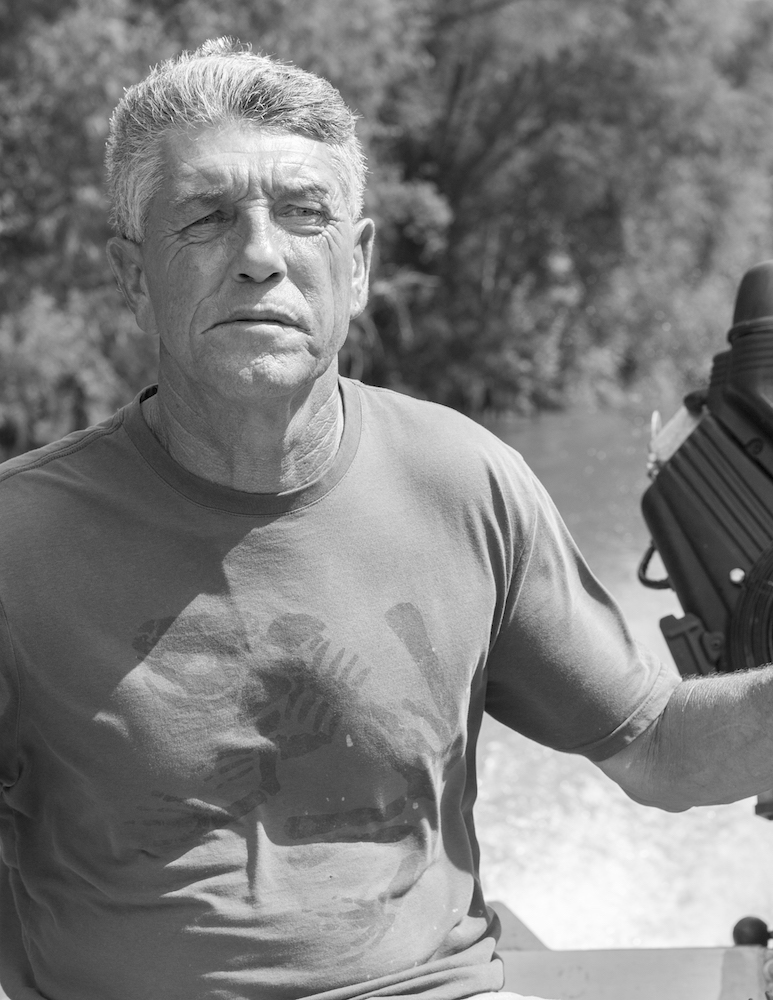
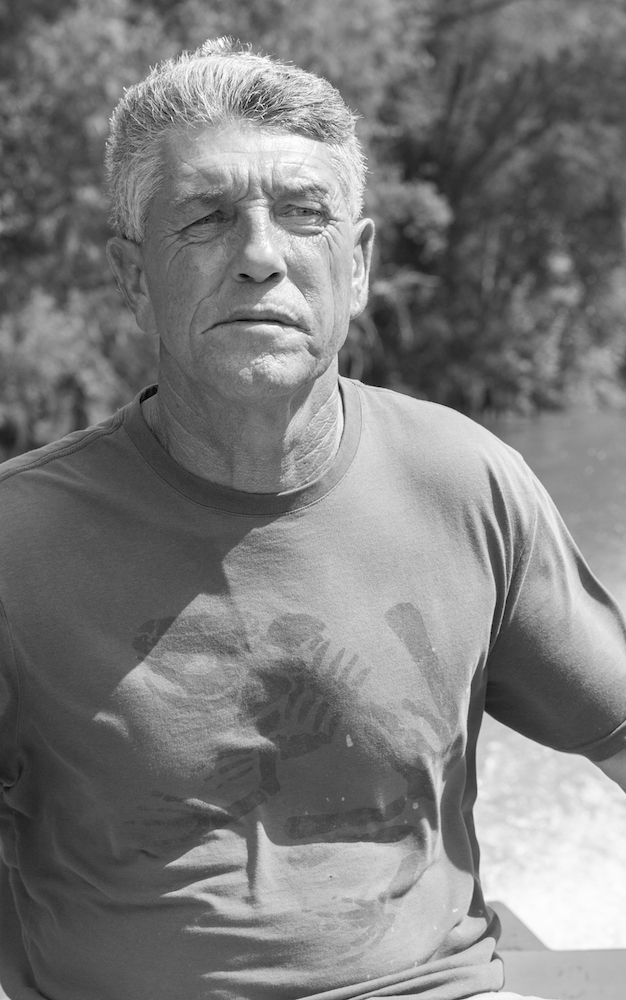
fix mobile

diff --git a/bayoubridge/app/assets/builds/bundle.css b/bayoubridge/app/assets/builds/bundle.css
@@ -12,4 +12,4 @@
  * Start Bootstrap - Creative Bootstrap Theme (http://startbootstrap.com)
  * Code licensed under the Apache License v2.0.
  * For details, see http://www.apache.org/licenses/LICENSE-2.0.
- */body,html{margin:0;padding:0;background-color:#000;overflow:hidden;height:100%;font-family:Droid Serif}body{display:none}body[class*=fp-viewing-]{display:block}button:focus{outline:0}div{padding:0;margin:0}hr{max-width:50px;border-color:#202020;border-width:3px}hr.light{border-color:#fff}a{color:#000;-webkit-transition:all .35s;-moz-transition:all .35s;transition:all .35s}a:focus,a:hover{color:#7f4242}a.no-decoration:focus,a.no-decoration:hover{text-decoration:none}h1,h2,h3,h4,h5,h6{font-family:Open Sans,Helvetica Neue,Arial,sans-serif;color:#da572e}h1.header-h1{color:#fff;text-transform:uppercase}p{margin-bottom:20px;font-size:16px;line-height:1.5}.desktop{display:none}.bg-primary{background-color:#000}.bg-dark{color:#fff;background-color:#222}.text-faded{color:hsla(0,0%,100%,.7)}section{padding:100px 0}aside{padding:50px 0}.no-padding{padding:0}.navbar-default{border-color:rgba(34,34,34,0);font-family:Open Sans,Helvetica Neue,Arial,sans-serif;background-color:#fff;-webkit-transition:all .35s;-moz-transition:all .35s;transition:all .35s}.navbar-default .navbar-header .navbar-brand{text-transform:uppercase;font-family:Open Sans,Helvetica Neue,Arial,sans-serif;font-weight:700;color:#000}.navbar-default .navbar-header .navbar-brand:focus,.navbar-default .navbar-header .navbar-brand:hover{color:#eb3812}.navbar-default .nav>li>a,.navbar-default .nav>li>a:focus{text-transform:uppercase;font-size:13px;font-weight:700;color:#222}.navbar-default .nav>li>a:focus:hover,.navbar-default .nav>li>a:hover{color:#000}.navbar-default .nav>li.active>a,.navbar-default .nav>li.active>a:focus{color:#000!important;background-color:transparent}.navbar-default .nav>li.active>a:focus:hover,.navbar-default .nav>li.active>a:hover{background-color:transparent}#apps,#contact{background-color:#fff}@media (min-width:768px){.navbar-default{border-color:hsla(0,0%,100%,0);background-color:#060606}.navbar-default .navbar-header .navbar-brand{color:hsla(0,0%,100%,.7)}.navbar-default .navbar-header .navbar-brand:focus,.navbar-default .navbar-header .navbar-brand:hover{color:#fff}.navbar-default .nav>li>a,.navbar-default .nav>li>a:focus{color:hsla(0,0%,100%,.7)}.navbar-default .nav>li>a:focus:hover,.navbar-default .nav>li>a:hover{color:#fff}.navbar-default.affix{border-color:rgba(34,34,34,.05);background-color:#fff}.navbar-default.affix .navbar-header .navbar-brand{font-size:14px;color:#000}.navbar-default.affix .navbar-header .navbar-brand:focus,.navbar-default.affix .navbar-header .navbar-brand:hover{color:#eb3812}.navbar-default.affix .nav>li>a,.navbar-default.affix .nav>li>a:focus{color:#222}.navbar-default.affix .nav>li>a:focus:hover,.navbar-default.affix .nav>li>a:hover{color:#000}}header .header-content{position:relative;width:100%;padding:100px 15px;text-align:center}header .header-content .header-content-inner h1{margin-top:0;margin-bottom:0;text-transform:uppercase;font-weight:700}header .header-content .header-content-inner hr{margin:30px auto}header .header-content .header-content-inner p{margin-bottom:50px;font-size:16px;font-weight:300;color:hsla(0,0%,100%,.7)}header .header-content-inner-wrapper{width:100%;position:absolute;top:20%;z-index:999;text-align:center}.header-video{display:none}iframe{padding:0;border:0;margin:0;width:100%;background:transparent;overflow:hidden}.slideWrap iframe{width:100%;height:800px}.slideshow-wrapper{background-color:#000}.section-heading{margin-top:0}.service-box{margin:50px auto 0;max-width:400px}@media (min-width:992px){.service-box{margin:20px auto 0}}.service-box p{margin-bottom:0}.portfolio-box{display:block;position:relative;margin:0 auto;max-width:650px}.logo-img{max-width:50px;max-height:50px;margin:10px}.portfolio-box .portfolio-box-caption{display:block;position:absolute;bottom:0;width:100%;height:100%;text-align:center;color:#fff;opacity:0;background:rgba(0,0,0,.9);-webkit-transition:all .35s;-moz-transition:all .35s;transition:all .35s}.portfolio-box .portfolio-box-caption .portfolio-box-caption-content{position:absolute;top:50%;width:100%;text-align:center;transform:translateY(-50%)}.portfolio-box .portfolio-box-caption .portfolio-box-caption-content .project-category,.portfolio-box .portfolio-box-caption .portfolio-box-caption-content .project-name{padding:0 15px;font-family:Open Sans,Helvetica Neue,Arial,sans-serif}.portfolio-box .portfolio-box-caption .portfolio-box-caption-content .project-category{text-transform:uppercase;font-size:14px;font-weight:600}.portfolio-box .portfolio-box-caption .portfolio-box-caption-content .project-name{font-size:18px}.portfolio-box:hover .portfolio-box-caption{opacity:1}@media (min-width:768px){.portfolio-box .portfolio-box-caption .portfolio-box-caption-content .project-category{font-size:16px}.portfolio-box .portfolio-box-caption .portfolio-box-caption-content .project-name{font-size:22px}}.call-to-action h2{margin:0 auto 20px}.text-primary{color:#000}.no-gutter>[class*=col-]{padding-right:0;padding-left:0}.btn-default{border-color:#fff;color:#222;background-color:#fff;-webkit-transition:all .35s;-moz-transition:all .35s;transition:all .35s}.btn-default.active,.btn-default.focus,.btn-default:active,.btn-default:focus,.btn-default:hover,.open>.dropdown-toggle.btn-default{border-color:#ededed;color:#222;background-color:#f2f2f2}.btn-default.active,.btn-default:active,.open>.dropdown-toggle.btn-default{background-image:none}.btn-default.disabled,.btn-default.disabled.active,.btn-default.disabled.focus,.btn-default.disabled:active,.btn-default.disabled:focus,.btn-default.disabled:hover,.btn-default[disabled],.btn-default[disabled].active,.btn-default[disabled].focus,.btn-default[disabled]:active,.btn-default[disabled]:focus,.btn-default[disabled]:hover,fieldset[disabled] .btn-default,fieldset[disabled] .btn-default.active,fieldset[disabled] .btn-default.focus,fieldset[disabled] .btn-default:active,fieldset[disabled] .btn-default:focus,fieldset[disabled] .btn-default:hover{border-color:#fff;background-color:#fff}.btn-default .badge{color:#fff;background-color:#222}.btn-primary{border-color:#000;color:#fff;background-color:#000;-webkit-transition:all .35s;-moz-transition:all .35s;transition:all .35s}.btn-primary.active,.btn-primary.focus,.btn-primary:active,.btn-primary:focus,.btn-primary:hover,.open>.dropdown-toggle.btn-primary{border-color:#7f4242;color:#fff;background-color:#7f4242}.btn-primary.active,.btn-primary:active,.open>.dropdown-toggle.btn-primary{background-image:none}.btn-primary.disabled,.btn-primary.disabled.active,.btn-primary.disabled.focus,.btn-primary.disabled:active,.btn-primary.disabled:focus,.btn-primary.disabled:hover,.btn-primary[disabled],.btn-primary[disabled].active,.btn-primary[disabled].focus,.btn-primary[disabled]:active,.btn-primary[disabled]:focus,.btn-primary[disabled]:hover,fieldset[disabled] .btn-primary,fieldset[disabled] .btn-primary.active,fieldset[disabled] .btn-primary.focus,fieldset[disabled] .btn-primary:active,fieldset[disabled] .btn-primary:focus,fieldset[disabled] .btn-primary:hover{border-color:#000;background-color:#000}.btn-primary .badge{color:#000;background-color:#fff}.btn{border:0;border-radius:300px;text-transform:uppercase;font-family:Open Sans,Helvetica Neue,Arial,sans-serif;font-weight:700}.btn-xl{padding:15px 30px}::-moz-selection{text-shadow:none;color:#fff;background:#222}::selection{text-shadow:none;color:#fff;background:#222}img::selection{color:#fff;background:0 0}img::-moz-selection{color:#fff;background:0 0}body{webkit-tap-highlight-color:#222}.verse-player-embed{top:51px}.section{background-color:#000}.section,.slide{position:relative}#section0,#section2 #slide1{background-size:cover;background-color:#000}#section2 #slide1{background-image:url("../img/sasol_2.jpg")}#section4 #slide1{background-size:cover;background-color:#000;background-image:url("../img/fullpage/eyes.gif")}#fullpage{margin-top:0} /*!DJA*/h1{letter-spacing:5px;font-family:Oswald;color:#c80813;font-weight:700;font-size:30px;text-transform:uppercase;text-shadow:2px 2px #fff}h2{letter-spacing:3px;font-family:Droid Serif;padding-top:10px;font-style:italic;font-size:20px;text-shadow:2px 2px #c80813}h2,h3{color:#fff}h3{font-family:Oswald;font-weight:700;text-transform:uppercase;margin:0}@-webkit-keyframes upDownMain{0%{-webkit-transform:translate(-50%);transform:translate(-50%)}20%{-webkit-transform:translate(-50%);transform:translate(-50%)}30%{-webkit-transform:translate(-50%,10px);transform:translate(-50%,10px)}40%{-webkit-transform:translate(-50%);transform:translate(-50%)}50%{-webkit-transform:translate(-50%,10px);transform:translate(-50%,10px)}60%{-webkit-transform:translate(-50%);transform:translate(-50%)}70%{-webkit-transform:translate(-50%);transform:translate(-50%)}}@keyframes upDownMain{0%{-webkit-transform:translate(-50%);transform:translate(-50%)}20%{-webkit-transform:translate(-50%);transform:translate(-50%)}30%{-webkit-transform:translate(-50%,10px);transform:translate(-50%,10px)}40%{-webkit-transform:translate(-50%);transform:translate(-50%)}50%{-webkit-transform:translate(-50%,10px);transform:translate(-50%,10px)}60%{-webkit-transform:translate(-50%);transform:translate(-50%)}70%{-webkit-transform:translate(-50%);transform:translate(-50%)}}@-webkit-keyframes upDownUp{0%{-webkit-transform:translate(-50%);transform:translate(-50%)}80%{-webkit-transform:translate(-50%);transform:translate(-50%)}85%{-webkit-transform:translate(-50%,-10px);transform:translate(-50%,-10px)}90%{-webkit-transform:translate(-50%);transform:translate(-50%)}95%{-webkit-transform:translate(-50%,-10px);transform:translate(-50%,-10px)}to{-webkit-transform:translate(-50%);transform:translate(-50%)}}@keyframes upDownUp{0%{-webkit-transform:translate(-50%);transform:translate(-50%)}80%{-webkit-transform:translate(-50%);transform:translate(-50%)}85%{-webkit-transform:translate(-50%,-10px);transform:translate(-50%,-10px)}90%{-webkit-transform:translate(-50%);transform:translate(-50%)}95%{-webkit-transform:translate(-50%,-10px);transform:translate(-50%,-10px)}to{-webkit-transform:translate(-50%);transform:translate(-50%)}}body .panel-arrow-down{bottom:6%;background-image:url(../img/slide-arrow.png)}body .panel-arrow-down,body .panel-arrow-up{width:88px;height:28px;position:fixed;left:50%;-webkit-transform:translate(-50%);-ms-transform:translate(-50%);transform:translate(-50%);background-repeat:no-repeat;background-size:contain;z-index:99999;cursor:pointer}body .panel-arrow-up{top:6%;visibility:hidden;background-image:url(../img/slide-arrow-up.png)}a,a:hover{color:#dc5f66}.top-header{width:100%;background-color:rgba(0,0,0,.53);z-index:8}.take-action-button,.top-header{position:absolute;top:0;height:35px}.take-action-button{cursor:pointer;font-family:Oswald;right:10%;font-size:20px;background-color:red;color:#fff}.take-action-text{height:35px;padding:3px}.watch-video{cursor:pointer}.video-pane__video-close{position:absolute;color:#fff;fill:#fff;top:5em;right:3em;z-index:11;-webkit-transition:.2s;transition:.2s;cursor:pointer}.video-pane__video-close button{-webkit-appearance:none;-moz-appearance:none;appearance:none;border:0;background:0 0;outline:0}.video-pane__video-close svg{width:40px;height:40px}.coverVideo{position:absolute;bottom:0;top:0;right:0;width:100%;height:100%;background-size:100% 100%;background-color:#000;background-position:50%;background-size:contain;object-fit:cover;z-index:3}body .video-pane__background-still{position:absolute;top:0;left:0;width:100%;height:100%;background-position:top;background-size:cover;z-index:1;opacity:1;-webkit-transition:opacity .3s ease;transition:opacity .3s ease}body .video-pane__container{height:100vh;width:100%;overflow:hidden;position:absolute;top:0;left:0;z-index:10;visibility:hidden}.blurb{color:#fff;width:50%;margin:40px auto;font-family:FreightSans-Book;font-size:20px;max-width:480px;line-height:30px}.container,body,html{height:110%}.container{display:table;width:100%;margin-top:-50px;padding:50px 0 0;box-sizing:border-box}.row{height:100%;display:table-row}.row .no-float{display:table-cell;float:none}.character-container{height:100%;background-size:100% 100%;background-color:#000;background-position:50%;background-size:cover;object-fit:cover;z-index:3}.character-container h3{color:#fff;top:10%;position:absolute;right:10%;font-size:25px;display:none}.character-container h4{color:#fff}.character-container.active h3{color:rgba(204,0,0,.7);display:block}.title-wrapper{z-index:100;color:#fff;position:relative;margin:0 auto;margin-top:-20%;text-align:center;padding:10px}.addthis_inline_share_toolbox{position:absolute;top:8px;left:15%}.fireriver_logo{position:absolute;top:2px;left:1%;max-height:90%}.show{visibility:visible!important}.hide{visibility:hidden}.video-pane__play-wrap{color:#fff;text-transform:uppercase;font-size:1.125em;letter-spacing:.5em;opacity:1;z-index:10;-webkit-transition:all .3s ease;transition:all .3s ease;padding-top:7px}.video-pane__intro-text-holder{position:absolute;top:46%;left:50%;width:100%;-webkit-transform:translate(-50%,-40%);-ms-transform:translate(-50%,-40%);transform:translate(-50%,-40%);text-align:center;z-index:4}.video-pane__play-wrap span.first{margin-right:-.5em}.playBtn.intro{position:relative;margin:0;display:inline-block;vertical-align:middle;margin:0 1.33333em;-webkit-transform:translateX(0)!important;-ms-transform:translateX(0)!important;transform:translateX(0)!important;left:auto!important}.parallax-container{position:absolute;overflow:hidden;display:table;height:100%;width:100%;left:0;top:0}.layer,.scene{display:block;height:100%;width:100%;padding:0;margin:0}.scene{left:0;bottom:0;min-height:460px;position:relative;overflow:hidden}.background{bottom:0;background-size:contain;background-repeat:repeat 50% 100%;width:110%;left:-5%;top:30%}.background,.layer{position:absolute}.layer div{-webkit-transform:translateZ(0);-moz-transform:translateZ(0);transform:translateZ(0);-webkit-transform-style:preserve-3d;-moz-transform-style:preserve-3d;transform-style:preserve-3d;-webkit-backface-visibility:hidden;-moz-backface-visibility:hidden;backface-visibility:hidden}.character-caption,.video-caption{color:#fff;background-color:rgba(0,0,0,.48);border:1px solid #fff;width:70%;padding:10px;margin:0 auto;margin-top:50px;text-align:left}.character-caption{top:12%;position:absolute;right:10%;right:0;width:100%}.character-caption p{font-size:12px}.character-caption{display:none}.character-caption h3,.character-caption h4,.map-caption h3,.video-caption h3{letter-spacing:2px;font-family:Oswald;font-weight:700;color:#fff;padding-top:0;margin-top:0;text-transform:uppercase}.map-caption p,.video-caption p{font-family:Droid Serif;font-size:12px}.character-caption hr,.map-caption hr,.video-caption-left hr,.video-caption hr,.video-gallery-caption hr,hr.white{max-width:100%;width:100%;display:block;height:1px;border:0;border-top:1px solid #fff;margin:1em 0;padding:0}.bayou-timeline{position:fixed;top:0;width:0;height:100vh;z-index:9;pointer-events:none;display:none;visibility:hidden}.bayou-timeline__navBlock.extra{top:3%}.bayou-timeline__navBlock{position:absolute;top:3%;right:-2px;height:4%;width:4px;z-index:9;background-color:#c80813;-webkit-transition:top .5s ease;transition:top .5s ease}.bayou-timeline__textContainer{height:16.666%;width:100%;position:relative;-webkit-transition:opacity .3s ease;transition:opacity .3s ease}timeline__textContainer .text-wrapper{position:absolute;top:50%;right:0;padding-right:15%;-webkit-transform:translateY(-50%);-ms-transform:translateY(-50%);transform:translateY(-50%);-webkit-transition:opacity .3s ease;transition:opacity .3s ease}.bayou-timeline h4{font-size:19px;font-size:1.5em;font-family:FreightSans-Medium,Arial,sans-serif;font-weight:400;font-style:normal;line-height:1em;margin-bottom:.5em;color:#fff;text-align:right;font-family:FreightSans-Book;letter-spacing:1px;font-size:10px}.bayou-timeline__separationLine{width:20px;height:2px;background-color:hsla(0,0%,100%,.5)}.bayou-timeline__line{position:absolute;top:0;right:0;width:1px;height:100%;background-color:hsla(0,0%,100%,.5)}.bayou-timeline__textContainer .line-wrapper,.bayou-timeline__textContainer .text-wrapper{position:absolute;top:50%;right:0;padding-right:15%;-webkit-transform:translateY(-50%);-ms-transform:translateY(-50%);transform:translateY(-50%);-webkit-transition:opacity .3s ease;transition:opacity .3s ease}.bayou-timeline__textContainer.active .text-wrapper{display:block}.bayou-timeline__textContainer .text-wrapper{display:none}@-webkit-keyframes pulse{0%{-webkit-transform:scale(1);transform:scale(1)}to{-webkit-transform:scale(1.4);transform:scale(1.4)}}@keyframes pulse{0%{-webkit-transform:scale(1);transform:scale(1)}to{-webkit-transform:scale(1.4);transform:scale(1.4)}}.hotspot{width:25px;height:25px;z-index:9999;background-color:hsla(0,0%,100%,.5);cursor:pointer;-webkit-backface-visibility:hidden;backface-visibility:hidden;-webkit-transform:translateZ(0);transform:translateZ(0);-webkit-animation:pulse 1s ease-in-out alternate infinite;animation:pulse 1s ease-in-out alternate infinite}.hotspot,.hotspot:after{border-radius:50%;position:absolute}.hotspot:after{content:"";width:15px;height:15px;top:50%;left:50%;-webkit-transform:translate(-49%,-50%);-ms-transform:translate(-49%,-50%);transform:translate(-49%,-50%);background-color:#fff;-webkit-transition:background-color .3s ease;transition:background-color .3s ease}.hotspot.btn-warning{background-color:#c80813;-webkit-animation:none;animation:none}.hotspot.btn-primary{background-color:hsla(0,0%,100%,.5)}.gallery-display-wrapper{top:10%;position:relative;height:70%;width:100%;background-color:#000;background-size:contain;background-image:url("./../img/maps/pipeline_background.png");background-repeat:no-repeat;background-position-y:center;background-position-x:center}#louisiana-gallery{background-image:url("./../img/maps/louisiana_background.png")}.gallery-slide{background-color:#000!important}.video-gallery-caption{color:#fff;top:65%;font-size:10px;width:70%;right:14%;background-color:rgba(0,0,0,.7)}.btn-collection,.video-gallery-caption{z-index:9999;position:absolute;margin:0 auto;text-align:center}.btn-collection{background-color:#000;width:100%;top:1px;border-bottom:1px solid #fff;padding:5px}@media (orientation:landscape) and (max-width:768px){h1{font-size:30px}h2{font-size:20px}.title-wrapper{margin-top:-10%}.video-caption{margin-top:25px}.video-pane__play-wrap{position:absolute;top:-14%;right:5%}}@media only screen and (min-width:768px){h1{font-size:65px}h1.text-slide{font-size:36px}h2{font-size:27px}.character-container h3{font-size:25px;display:block}.mobile{display:none}.desktop,.hotspot-container{display:block}.take-action-button{right:6%}.fireriver_logo{right:2%}.hotspot{width:45px;height:45px}.logo-img{max-width:120px;max-height:120px;margin:20px}.gallery-display-wrapper{width:70%}.video-gallery-caption{top:70%;width:100%}.bounce-down{-webkit-animation:upDownMain 4s ease 1s infinite;animation:upDownMain 4s ease 1s infinite}.btn-collection{display:none}.video-caption{color:#fff;background-color:rgba(0,0,0,.48);border:1px solid #fff;padding:10px;margin:0 auto;margin-top:50px;text-align:left;position:absolute;right:10%;top:20%;z-index:100;width:30%}.addthis_inline_share_toolbox{left:6%}.video-caption-left{background-color:rgba(0,0,0,.48);border:1px solid #fff;left:10%;top:20%;width:30%}.map-caption,.video-caption-left{color:#fff;padding:10px;margin:0 auto;margin-top:50px;text-align:left;position:absolute;z-index:100}.map-caption{right:15%;top:17%;width:20%}.character-caption{top:46%;font-size:14px;right:10%;width:70%}.character-caption p{font-size:15px}.louisiana-map-caption.map-caption{right:21%;width:24%}.video-caption p{font-family:Droid Serif;font-size:15px}.bayou-timeline{width:6%}}
+ */body,html{margin:0;padding:0;background-color:#000;overflow:hidden;height:100%;font-family:Droid Serif}body{display:none}body[class*=fp-viewing-]{display:block}button:focus{outline:0}div{padding:0;margin:0}hr{max-width:50px;border-color:#202020;border-width:3px}hr.light{border-color:#fff}a{color:#000;-webkit-transition:all .35s;-moz-transition:all .35s;transition:all .35s}a:focus,a:hover{color:#7f4242}a.no-decoration:focus,a.no-decoration:hover{text-decoration:none}h1,h2,h3,h4,h5,h6{font-family:Open Sans,Helvetica Neue,Arial,sans-serif;color:#da572e}h1.header-h1{color:#fff;text-transform:uppercase}p{margin-bottom:20px;font-size:16px;line-height:1.5}.desktop{display:none}.bg-primary{background-color:#000}.bg-dark{color:#fff;background-color:#222}.text-faded{color:hsla(0,0%,100%,.7)}section{padding:100px 0}aside{padding:50px 0}.no-padding{padding:0}.navbar-default{border-color:rgba(34,34,34,0);font-family:Open Sans,Helvetica Neue,Arial,sans-serif;background-color:#fff;-webkit-transition:all .35s;-moz-transition:all .35s;transition:all .35s}.navbar-default .navbar-header .navbar-brand{text-transform:uppercase;font-family:Open Sans,Helvetica Neue,Arial,sans-serif;font-weight:700;color:#000}.navbar-default .navbar-header .navbar-brand:focus,.navbar-default .navbar-header .navbar-brand:hover{color:#eb3812}.navbar-default .nav>li>a,.navbar-default .nav>li>a:focus{text-transform:uppercase;font-size:13px;font-weight:700;color:#222}.navbar-default .nav>li>a:focus:hover,.navbar-default .nav>li>a:hover{color:#000}.navbar-default .nav>li.active>a,.navbar-default .nav>li.active>a:focus{color:#000!important;background-color:transparent}.navbar-default .nav>li.active>a:focus:hover,.navbar-default .nav>li.active>a:hover{background-color:transparent}#apps,#contact{background-color:#fff}@media (min-width:768px){.navbar-default{border-color:hsla(0,0%,100%,0);background-color:#060606}.navbar-default .navbar-header .navbar-brand{color:hsla(0,0%,100%,.7)}.navbar-default .navbar-header .navbar-brand:focus,.navbar-default .navbar-header .navbar-brand:hover{color:#fff}.navbar-default .nav>li>a,.navbar-default .nav>li>a:focus{color:hsla(0,0%,100%,.7)}.navbar-default .nav>li>a:focus:hover,.navbar-default .nav>li>a:hover{color:#fff}.navbar-default.affix{border-color:rgba(34,34,34,.05);background-color:#fff}.navbar-default.affix .navbar-header .navbar-brand{font-size:14px;color:#000}.navbar-default.affix .navbar-header .navbar-brand:focus,.navbar-default.affix .navbar-header .navbar-brand:hover{color:#eb3812}.navbar-default.affix .nav>li>a,.navbar-default.affix .nav>li>a:focus{color:#222}.navbar-default.affix .nav>li>a:focus:hover,.navbar-default.affix .nav>li>a:hover{color:#000}}header .header-content{position:relative;width:100%;padding:100px 15px;text-align:center}header .header-content .header-content-inner h1{margin-top:0;margin-bottom:0;text-transform:uppercase;font-weight:700}header .header-content .header-content-inner hr{margin:30px auto}header .header-content .header-content-inner p{margin-bottom:50px;font-size:16px;font-weight:300;color:hsla(0,0%,100%,.7)}header .header-content-inner-wrapper{width:100%;position:absolute;top:20%;z-index:999;text-align:center}.header-video{display:none}iframe{padding:0;border:0;margin:0;width:100%;background:transparent;overflow:hidden}.slideWrap iframe{width:100%;height:800px}.slideshow-wrapper{background-color:#000}.section-heading{margin-top:0}.service-box{margin:50px auto 0;max-width:400px}@media (min-width:992px){.service-box{margin:20px auto 0}}.service-box p{margin-bottom:0}.portfolio-box{display:block;position:relative;margin:0 auto;max-width:650px}.logo-img{max-width:50px;max-height:50px;margin:10px}.portfolio-box .portfolio-box-caption{display:block;position:absolute;bottom:0;width:100%;height:100%;text-align:center;color:#fff;opacity:0;background:rgba(0,0,0,.9);-webkit-transition:all .35s;-moz-transition:all .35s;transition:all .35s}.portfolio-box .portfolio-box-caption .portfolio-box-caption-content{position:absolute;top:50%;width:100%;text-align:center;transform:translateY(-50%)}.portfolio-box .portfolio-box-caption .portfolio-box-caption-content .project-category,.portfolio-box .portfolio-box-caption .portfolio-box-caption-content .project-name{padding:0 15px;font-family:Open Sans,Helvetica Neue,Arial,sans-serif}.portfolio-box .portfolio-box-caption .portfolio-box-caption-content .project-category{text-transform:uppercase;font-size:14px;font-weight:600}.portfolio-box .portfolio-box-caption .portfolio-box-caption-content .project-name{font-size:18px}.portfolio-box:hover .portfolio-box-caption{opacity:1}@media (min-width:768px){.portfolio-box .portfolio-box-caption .portfolio-box-caption-content .project-category{font-size:16px}.portfolio-box .portfolio-box-caption .portfolio-box-caption-content .project-name{font-size:22px}}.call-to-action h2{margin:0 auto 20px}.text-primary{color:#000}.no-gutter>[class*=col-]{padding-right:0;padding-left:0}.btn-default{border-color:#fff;color:#222;background-color:#fff;-webkit-transition:all .35s;-moz-transition:all .35s;transition:all .35s}.btn-default.active,.btn-default.focus,.btn-default:active,.btn-default:focus,.btn-default:hover,.open>.dropdown-toggle.btn-default{border-color:#ededed;color:#222;background-color:#f2f2f2}.btn-default.active,.btn-default:active,.open>.dropdown-toggle.btn-default{background-image:none}.btn-default.disabled,.btn-default.disabled.active,.btn-default.disabled.focus,.btn-default.disabled:active,.btn-default.disabled:focus,.btn-default.disabled:hover,.btn-default[disabled],.btn-default[disabled].active,.btn-default[disabled].focus,.btn-default[disabled]:active,.btn-default[disabled]:focus,.btn-default[disabled]:hover,fieldset[disabled] .btn-default,fieldset[disabled] .btn-default.active,fieldset[disabled] .btn-default.focus,fieldset[disabled] .btn-default:active,fieldset[disabled] .btn-default:focus,fieldset[disabled] .btn-default:hover{border-color:#fff;background-color:#fff}.btn-default .badge{color:#fff;background-color:#222}.btn-primary{border-color:#000;color:#fff;background-color:#000;-webkit-transition:all .35s;-moz-transition:all .35s;transition:all .35s}.btn-primary.active,.btn-primary.focus,.btn-primary:active,.btn-primary:focus,.btn-primary:hover,.open>.dropdown-toggle.btn-primary{border-color:#7f4242;color:#fff;background-color:#7f4242}.btn-primary.active,.btn-primary:active,.open>.dropdown-toggle.btn-primary{background-image:none}.btn-primary.disabled,.btn-primary.disabled.active,.btn-primary.disabled.focus,.btn-primary.disabled:active,.btn-primary.disabled:focus,.btn-primary.disabled:hover,.btn-primary[disabled],.btn-primary[disabled].active,.btn-primary[disabled].focus,.btn-primary[disabled]:active,.btn-primary[disabled]:focus,.btn-primary[disabled]:hover,fieldset[disabled] .btn-primary,fieldset[disabled] .btn-primary.active,fieldset[disabled] .btn-primary.focus,fieldset[disabled] .btn-primary:active,fieldset[disabled] .btn-primary:focus,fieldset[disabled] .btn-primary:hover{border-color:#000;background-color:#000}.btn-primary .badge{color:#000;background-color:#fff}.btn{border:0;border-radius:300px;text-transform:uppercase;font-family:Open Sans,Helvetica Neue,Arial,sans-serif;font-weight:700}.btn-xl{padding:15px 30px}::-moz-selection{text-shadow:none;color:#fff;background:#222}::selection{text-shadow:none;color:#fff;background:#222}img::selection{color:#fff;background:0 0}img::-moz-selection{color:#fff;background:0 0}body{webkit-tap-highlight-color:#222}.verse-player-embed{top:51px}.section{background-color:#000}.section,.slide{position:relative}#section0,#section2 #slide1{background-size:cover;background-color:#000}#section2 #slide1{background-image:url("../img/sasol_2.jpg")}#section4 #slide1{background-size:cover;background-color:#000;background-image:url("../img/fullpage/eyes.gif")}#fullpage{margin-top:0} /*!DJA*/h1{letter-spacing:5px;font-family:Oswald;color:#c80813;font-weight:700;font-size:30px;text-transform:uppercase;text-shadow:1px 1px #fff}h2{letter-spacing:3px;font-family:Droid Serif;padding-top:10px;font-style:italic;font-size:20px;text-shadow:1px 1px #000}h2,h3{color:#fff}h3{font-family:Oswald;font-weight:700;text-transform:uppercase;margin:0}.title-box{width:60%;margin:0 auto;background:rgba(45,45,45,.63);padding:15px;outline:1px solid #fff}@-webkit-keyframes upDownMain{0%{-webkit-transform:translate(-50%);transform:translate(-50%)}20%{-webkit-transform:translate(-50%);transform:translate(-50%)}30%{-webkit-transform:translate(-50%,10px);transform:translate(-50%,10px)}40%{-webkit-transform:translate(-50%);transform:translate(-50%)}50%{-webkit-transform:translate(-50%,10px);transform:translate(-50%,10px)}60%{-webkit-transform:translate(-50%);transform:translate(-50%)}70%{-webkit-transform:translate(-50%);transform:translate(-50%)}}@keyframes upDownMain{0%{-webkit-transform:translate(-50%);transform:translate(-50%)}20%{-webkit-transform:translate(-50%);transform:translate(-50%)}30%{-webkit-transform:translate(-50%,10px);transform:translate(-50%,10px)}40%{-webkit-transform:translate(-50%);transform:translate(-50%)}50%{-webkit-transform:translate(-50%,10px);transform:translate(-50%,10px)}60%{-webkit-transform:translate(-50%);transform:translate(-50%)}70%{-webkit-transform:translate(-50%);transform:translate(-50%)}}@-webkit-keyframes upDownUp{0%{-webkit-transform:translate(-50%);transform:translate(-50%)}80%{-webkit-transform:translate(-50%);transform:translate(-50%)}85%{-webkit-transform:translate(-50%,-10px);transform:translate(-50%,-10px)}90%{-webkit-transform:translate(-50%);transform:translate(-50%)}95%{-webkit-transform:translate(-50%,-10px);transform:translate(-50%,-10px)}to{-webkit-transform:translate(-50%);transform:translate(-50%)}}@keyframes upDownUp{0%{-webkit-transform:translate(-50%);transform:translate(-50%)}80%{-webkit-transform:translate(-50%);transform:translate(-50%)}85%{-webkit-transform:translate(-50%,-10px);transform:translate(-50%,-10px)}90%{-webkit-transform:translate(-50%);transform:translate(-50%)}95%{-webkit-transform:translate(-50%,-10px);transform:translate(-50%,-10px)}to{-webkit-transform:translate(-50%);transform:translate(-50%)}}body .panel-arrow-down{bottom:6%;background-image:url(../img/slide-arrow.png)}body .panel-arrow-down,body .panel-arrow-up{width:88px;height:28px;position:fixed;left:50%;-webkit-transform:translate(-50%);-ms-transform:translate(-50%);transform:translate(-50%);background-repeat:no-repeat;background-size:contain;z-index:99999;cursor:pointer}body .panel-arrow-up{top:6%;visibility:hidden;background-image:url(../img/slide-arrow-up.png)}a,a:hover{color:#dc5f66}.top-header{width:100%;background-color:rgba(0,0,0,.53);z-index:8}.take-action-button,.top-header{position:absolute;top:0;height:35px}.take-action-button{cursor:pointer;font-family:Oswald;right:10%;font-size:20px;background-color:red;color:#fff}.take-action-text{height:35px;padding:3px}.watch-video{cursor:pointer}.video-pane__video-close{position:absolute;color:#fff;fill:#fff;top:5em;right:3em;z-index:11;-webkit-transition:.2s;transition:.2s;cursor:pointer}.video-pane__video-close button{-webkit-appearance:none;-moz-appearance:none;appearance:none;border:0;background:0 0;outline:0}.video-pane__video-close svg{width:40px;height:40px}.coverVideo{position:absolute;bottom:0;top:0;right:0;width:100%;height:100%;background-size:100% 100%;background-color:#000;background-position:50%;background-size:contain;object-fit:cover;z-index:3}body .video-pane__background-still{position:absolute;top:0;left:0;width:100%;height:100%;background-position:top;background-size:cover;z-index:1;opacity:1;-webkit-transition:opacity .3s ease;transition:opacity .3s ease}body .video-pane__container{height:100vh;width:100%;overflow:hidden;position:absolute;top:0;left:0;z-index:10;visibility:hidden}.blurb{color:#fff;width:50%;margin:40px auto;font-family:FreightSans-Book;font-size:20px;max-width:480px;line-height:30px}.container,body,html{height:110%}.container{display:table;width:100%;margin-top:-50px;padding:50px 0 0;box-sizing:border-box}.row{height:100%;display:table-row}.row .no-float{display:table-cell;float:none}.character-container{height:100%;background-size:100% 100%;background-color:#000;background-position:50%;background-size:cover;object-fit:cover;z-index:3}.character-container h3{color:#fff;top:10%;position:absolute;right:10%;font-size:25px;display:none}.character-container h4{color:#fff}.character-container.active h3{color:rgba(204,0,0,.7);display:block}.title-wrapper{z-index:100;color:#fff;position:relative;margin:0 auto;margin-top:-20%;text-align:center;padding:10px}.addthis_inline_share_toolbox{position:absolute;top:8px;left:15%}.fireriver_logo{position:absolute;top:2px;left:1%;max-height:90%}.show{visibility:visible!important}.hide{visibility:hidden}.video-pane__play-wrap{color:#fff;text-transform:uppercase;font-size:1.125em;letter-spacing:.5em;opacity:1;z-index:10;-webkit-transition:all .3s ease;transition:all .3s ease;padding-top:7px}.video-pane__intro-text-holder{position:absolute;top:46%;left:50%;width:100%;-webkit-transform:translate(-50%,-40%);-ms-transform:translate(-50%,-40%);transform:translate(-50%,-40%);text-align:center;z-index:4}.video-pane__play-wrap span.first{margin-right:-.5em}.playBtn.intro{position:relative;margin:0;display:inline-block;vertical-align:middle;margin:0 1.33333em;-webkit-transform:translateX(0)!important;-ms-transform:translateX(0)!important;transform:translateX(0)!important;left:auto!important}.parallax-container{position:absolute;overflow:hidden;display:table;height:100%;width:100%;left:0;top:0}.layer,.scene{display:block;height:100%;width:100%;padding:0;margin:0}.scene{left:0;bottom:0;min-height:460px;position:relative;overflow:hidden}.background{bottom:0;background-size:contain;background-repeat:repeat 50% 100%;width:110%;left:-5%;top:30%}.background,.layer{position:absolute}.layer div{-webkit-transform:translateZ(0);-moz-transform:translateZ(0);transform:translateZ(0);-webkit-transform-style:preserve-3d;-moz-transform-style:preserve-3d;transform-style:preserve-3d;-webkit-backface-visibility:hidden;-moz-backface-visibility:hidden;backface-visibility:hidden}.character-caption,.video-caption{color:#fff;background-color:rgba(0,0,0,.48);border:1px solid #fff;width:70%;padding:10px;margin:0 auto;margin-top:50px;text-align:left}.character-caption{top:12%;position:absolute;right:10%;right:0;width:100%}.character-caption p{font-size:12px}.character-caption{display:none}.character-caption h3,.character-caption h4,.map-caption h3,.video-caption h3{letter-spacing:2px;font-family:Oswald;font-weight:700;color:#fff;padding-top:0;margin-top:0;text-transform:uppercase}.map-caption p,.video-caption p{font-family:Droid Serif;font-size:12px}.character-caption hr,.map-caption hr,.video-caption-left hr,.video-caption hr,.video-gallery-caption hr,hr.white{max-width:100%;width:100%;display:block;height:1px;border:0;border-top:1px solid #fff;margin:1em 0;padding:0}.bayou-timeline{position:fixed;top:0;width:0;height:100vh;z-index:9;pointer-events:none;display:none;visibility:hidden}.bayou-timeline__navBlock.extra{top:3%}.bayou-timeline__navBlock{position:absolute;top:3%;right:-2px;height:4%;width:4px;z-index:9;background-color:#c80813;-webkit-transition:top .5s ease;transition:top .5s ease}.bayou-timeline__textContainer{height:16.666%;width:100%;position:relative;-webkit-transition:opacity .3s ease;transition:opacity .3s ease}timeline__textContainer .text-wrapper{position:absolute;top:50%;right:0;padding-right:15%;-webkit-transform:translateY(-50%);-ms-transform:translateY(-50%);transform:translateY(-50%);-webkit-transition:opacity .3s ease;transition:opacity .3s ease}.bayou-timeline h4{font-size:19px;font-size:1.5em;font-family:FreightSans-Medium,Arial,sans-serif;font-weight:400;font-style:normal;line-height:1em;margin-bottom:.5em;color:#fff;text-align:right;font-family:FreightSans-Book;letter-spacing:1px;font-size:10px}.bayou-timeline__separationLine{width:20px;height:2px;background-color:hsla(0,0%,100%,.5)}.bayou-timeline__line{position:absolute;top:0;right:0;width:1px;height:100%;background-color:hsla(0,0%,100%,.5)}.bayou-timeline__textContainer .line-wrapper,.bayou-timeline__textContainer .text-wrapper{position:absolute;top:50%;right:0;padding-right:15%;-webkit-transform:translateY(-50%);-ms-transform:translateY(-50%);transform:translateY(-50%);-webkit-transition:opacity .3s ease;transition:opacity .3s ease}.bayou-timeline__textContainer.active .text-wrapper{display:block}.bayou-timeline__textContainer .text-wrapper{display:none}@-webkit-keyframes pulse{0%{-webkit-transform:scale(1);transform:scale(1)}to{-webkit-transform:scale(1.4);transform:scale(1.4)}}@keyframes pulse{0%{-webkit-transform:scale(1);transform:scale(1)}to{-webkit-transform:scale(1.4);transform:scale(1.4)}}.hotspot{width:25px;height:25px;z-index:9999;background-color:hsla(0,0%,100%,.5);cursor:pointer;-webkit-backface-visibility:hidden;backface-visibility:hidden;-webkit-transform:translateZ(0);transform:translateZ(0);-webkit-animation:pulse 1s ease-in-out alternate infinite;animation:pulse 1s ease-in-out alternate infinite}.hotspot,.hotspot:after{border-radius:50%;position:absolute}.hotspot:after{content:"";width:15px;height:15px;top:50%;left:50%;-webkit-transform:translate(-49%,-50%);-ms-transform:translate(-49%,-50%);transform:translate(-49%,-50%);background-color:#fff;-webkit-transition:background-color .3s ease;transition:background-color .3s ease}.hotspot.btn-warning{background-color:#c80813;-webkit-animation:none;animation:none}.hotspot.btn-primary{background-color:hsla(0,0%,100%,.5)}.gallery-display-wrapper{top:10%;position:relative;height:70%;width:100%;background-color:#000;background-size:contain;background-image:url("./../img/maps/pipeline_background.png");background-repeat:no-repeat;background-position-y:center;background-position-x:center}#louisiana-gallery{background-image:url("./../img/maps/louisiana_background.png")}.gallery-slide{background-color:#000!important}.video-gallery-caption{color:#fff;top:65%;font-size:10px;width:70%;right:14%;background-color:rgba(0,0,0,.7)}.btn-collection,.video-gallery-caption{z-index:9999;position:absolute;margin:0 auto;text-align:center}.btn-collection{background-color:#000;width:100%;top:1px;border-bottom:1px solid #fff;padding:5px}@media (orientation:landscape) and (max-width:768px){h1{font-size:30px}h2{font-size:20px}.title-wrapper{margin-top:-10%}.video-caption{margin-top:25px}}@media only screen and (min-width:768px){h1{font-size:65px}h1.text-slide{font-size:36px}h2{font-size:27px}.character-container h3{font-size:25px;display:block}.mobile{display:none}.desktop,.hotspot-container{display:block}.take-action-button{right:6%}.fireriver_logo{right:2%}.hotspot{width:45px;height:45px}.logo-img{max-width:120px;max-height:120px;margin:20px}.gallery-display-wrapper{width:70%}.video-gallery-caption{top:70%;width:100%}.bounce-down{-webkit-animation:upDownMain 4s ease 1s infinite;animation:upDownMain 4s ease 1s infinite}.btn-collection{display:none}.video-caption{color:#fff;background-color:rgba(0,0,0,.48);border:1px solid #fff;padding:10px;margin:0 auto;margin-top:50px;text-align:left;position:absolute;right:10%;top:20%;z-index:100;width:30%}.addthis_inline_share_toolbox{left:6%}.video-caption-left{background-color:rgba(0,0,0,.48);border:1px solid #fff;left:10%;top:20%;width:30%}.map-caption,.video-caption-left{color:#fff;padding:10px;margin:0 auto;margin-top:50px;text-align:left;position:absolute;z-index:100}.map-caption{right:15%;top:17%;width:20%}.character-caption{top:46%;font-size:14px;right:10%;width:70%}.character-caption p{font-size:15px}.louisiana-map-caption.map-caption{right:21%;width:24%}.video-caption p{font-family:Droid Serif;font-size:15px}.bayou-timeline{width:6%}}

diff --git a/bayoubridge/index.html b/bayoubridge/index.html
@@ -27,9 +27,9 @@
       <div class="fp-tableCell">
       <div style="background-image: url(app/assets/img/titlecover.png);" data-src="app/assets/img/titlecover.png" class="video-pane__background-still mobile"></div>
       <video id="introVid" class="coverVideo desktop" loop muted data-autoplay style="top=-20"><!--poster="app/assets/img/titlecover.png"-->
-        <source src="https://s3.amazonaws.com/fireriver/pipeline_flyover_new.webm" type="video/webm">
-        <source src="https://s3.amazonaws.com/fireriver/pipeline_flyover.mp4" type="video/mp4">
-        <source src="https://s3.amazonaws.com/fireriver/pipeline_flyover_new.ogv" type="video/ogg">
+        <source src="https://s3.amazonaws.com/fireriver/bayoubridge/pipeline_flyover_3.webm" type="video/webm">
+        <source src="https://s3.amazonaws.com/fireriver/bayoubridge/pipeline_flyover_3.mp4" type="video/mp4">
+        <source src="https://s3.amazonaws.com/fireriver/bayoubridge/pipeline_flyover_3.ogv" type="video/ogg">
   		</video>
         <div class="title-wrapper">
           <img src="app/assets/img/homepageicon.png" width="70px"/>
@@ -47,7 +47,7 @@
     <!-- Dallas -->
     <div class="section fp-table" style="overflow:hidden">
       <div class="fp-tableCell">
-      <div style="background-image: url(app/assets/img/character_dallas.png);" data-src="app/assets/img/character_dallas.png" class="video-pane__background-still mobile"></div>
+      <div style="background-image: url(app/assets/img/character_dallas_mobile.png);" data-src="app/assets/img/character_dallas_mobile.png" class="video-pane__background-still mobile"></div>
       <video id="introVid" class="coverVideo desktop" loop muted data-autoplay style="top=-20" poster="app/assets/img/character_dallas.png">
         <source src="https://s3.amazonaws.com/fireriver/bayoubridge/dallas.webm" type="video/webm">
         <source src="https://s3.amazonaws.com/fireriver/bayoubridge/dallas.mp4" type="video/mp4">
@@ -130,10 +130,10 @@
               <div class="video-pane__play-wrap">
                 <img class="watch-video" src="app/assets/img/playbutton.png" width="100px"/>
               </div>
-              <div class="video-caption mobile">
+              <!--div class="video-caption mobile">
                 <h3>The Archivist</h3> <hr>
                 <p>The United Houma Nation, a Native American tribe made up of more than 17,000 members, has been living off the land in Louisiana for hundreds of years. Forced migrations have pushed them from North Louisiana into swamplands deemed "uninhabitable" by French and American settlers. The Houma people thrived off of the land and waters for generations, until oil and gas exploration began. Spills, leaks, and landfills have forced them off of their land time and again. Now, the Bayou Bridge Pipeline threatens their drinking water. </p>
-              </div>
+              </div-->
             </div>
             <div style="background-image: url(app/assets/img/character_archivist.jpg);" data-src="app/assets/img/character_archivist.jpg" class="video-pane__background-still"></div>
             <div class="video-pane__container">
@@ -154,7 +154,7 @@
       <div class="hotspot-container toggle-gallery" id="pipeline">
       </div>
       <div class="gallery-display-wrapper pipeline">
-        <video class="desktop gallery-player" width="100%" height="100%" style="" id="pipeline" autoplay loop>
+        <video class="desktop gallery-player"  poster="app/assets/img/maps/pipeline_background.png"  width="100%" height="100%" style="" id="pipeline" autoplay loop>
           Your browser does not support the video tag.
         </video>
       </div>
@@ -183,10 +183,10 @@
               <div class="video-pane__play-wrap">
                 <img class="watch-video" src="app/assets/img/playbutton.png" width="100px"/>
               </div>
-              <div class="video-caption mobile">
+              <!--div class="video-caption mobile">
                 <h3>THE PASTOR</h3> <hr>
                 <p>Fifty miles up the Mississippi river from New Orleans, in the heart of "Cancer Alley," sits the fifth district of St. James. A collection of small communities that includes the historic Freetown, a settlement founded by former slaves and free people of color who bought land that had once been part of the Landry-Pedesclaux Plantation. This community would be the terminus point for the planned Bayou Bridge Pipeline. </p>
-              </div>
+              </div-->
             </div>
             <div style="background-image: url(app/assets/img/character_freetown.jpg);" data-src="app/assets/img/character_freetown.jpg" class="video-pane__background-still"></div>
             <div class="video-pane__container">
@@ -207,7 +207,7 @@
   <div class="section moveDown gallery-slide" id="section-louisiana-map section5">
       <div class="hotspot-container toggle-gallery" id="louisiana"></div>
       <div class="gallery-display-wrapper louisiana" id="louisiana-gallery">
-        <video class="desktop gallery-player" width="100%" height="100%" style="" id="louisiana" autoplay loop>
+        <video class="desktop gallery-player" poster="app/assets/img/maps/louisiana_background.png" width="100%" height="100%" style="" id="louisiana" autoplay loop>
           Your browser does not support the video tag.
         </video>
       </div>
@@ -236,10 +236,10 @@
             <div class="video-pane__play-wrap">
               <img class="watch-video" src="app/assets/img/playbutton.png" width="100px"/>
             </div>
-            <div class="video-caption mobile">
+            <!--div class="video-caption mobile">
               <h3>The General</h3> <hr>
               <p>The Atchafalaya Basin, the largest swamp in North America, has a spiderweb of pipelines across its wetlands. The east to west pipelines and their accompanying spoil banks have disrupted the north to south water flow, thereby creating large areas of stagnant water where crawfish and other wildlife can no longer survive. The Bayou Bridge Pipeline would be another east to west pipeline cutting across the Basin, an area already being irreparably harmed by pipelines and the oil and gas industry.</p>
-            </div>
+            </div-->
           </div>
           <div style="background-image: url(app/assets/img/character_general.jpg);" data-src="app/assets/img/character_general.jpg" class="video-pane__background-still"></div>
           <div class="video-pane__container">

diff --git a/bayoubridge/app/components/slider/style/slider.css b/bayoubridge/app/components/slider/style/slider.css
@@ -37,7 +37,7 @@ h1 {
   font-weight: bold;
   font-size: 30px;
   text-transform: uppercase;
-  text-shadow: 2px 2px #ffffff;
+  text-shadow: 1px 1px white;
 }
 
 h2 {
@@ -47,7 +47,7 @@ h2 {
   padding-top: 10px;
   font-style: italic;
   font-size: 20px;
-  text-shadow: 2px 2px #c80813;
+  text-shadow: 1px 1px black;
 }
 
 h3 {
@@ -56,6 +56,14 @@ h3 {
   font-weight: bold;
   text-transform: uppercase;
   margin: 0;
+}
+
+.title-box {
+  width: 60%;
+  margin: 0 auto;
+  background: rgba(45, 45, 45, 0.63);
+  padding: 15px;
+  outline: 1px solid white;
 }
 
 @-webkit-keyframes upDownMain {

diff --git a/bayoubridge/app/assets/css/media-queries.css b/bayoubridge/app/assets/css/media-queries.css
@@ -14,12 +14,6 @@
   .video-caption {
     margin-top: 25px;
   }
-
-  .video-pane__play-wrap {
-    position: absolute;
-    top: -14%;
-    right: 5%;
-  }
 }
 
 @media only screen and (min-width: 768px) {
